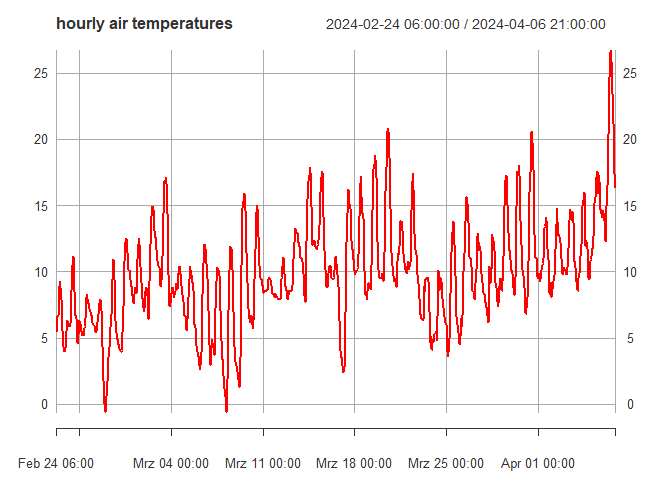
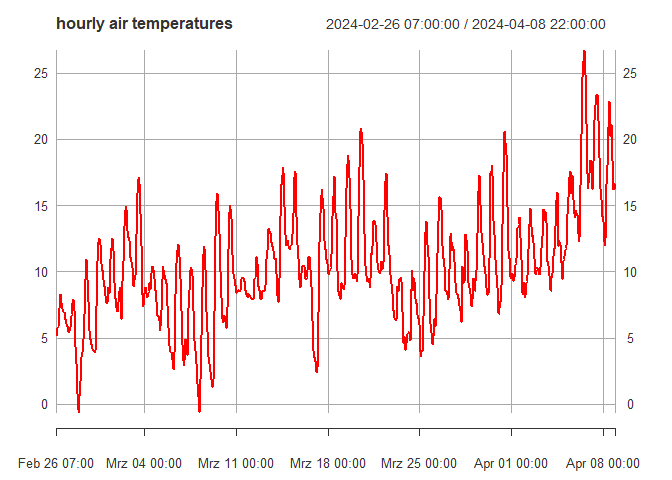
feat(get_n_queries)
fixes #74

diff --git a/README.md b/README.md
@@ -19,7 +19,7 @@ and load the package via
 
 ``` r
 library(netatmo.weather)
-#> 0.5.18
+#> 0.5.20
 ```
 
 ## Getting Started
@@ -158,25 +158,25 @@ stations <- get_publicdata(ext = e1)
 #> /getpublicdata: Fetching stations from the following area: 6.89, 51.34, 7.13, 51.53 ...
 
 stations
-#> Simple feature collection with 307 features and 13 fields
+#> Simple feature collection with 306 features and 13 fields
 #> Geometry type: POINT
 #> Dimension:     XY
 #> Bounding box:  xmin: 6.890067 ymin: 51.34127 xmax: 7.129903 ymax: 51.52976
 #> Geodetic CRS:  WGS 84
-#> # A tibble: 307 × 14
+#> # A tibble: 306 × 14
 #>    status time_server         NAMain      timezone country altitude city  street
 #>  * <chr>  <dttm>              <chr>       <chr>    <chr>      <int> <chr> <chr> 
-#>  1 ok     2024-04-06 22:25:22 70:ee:50:0… Europe/… DE           111 Essen A 52  
-#>  2 ok     2024-04-06 22:25:22 70:ee:50:6… Europe/… DE           112 Essen Steel…
-#>  3 ok     2024-04-06 22:25:22 70:ee:50:0… Europe/… DE           114 Essen Steel…
-#>  4 ok     2024-04-06 22:25:22 70:ee:50:a… Europe/… DE           108 Essen Eligi…
-#>  5 ok     2024-04-06 22:25:22 70:ee:50:0… Europe/… DE            60 Essen Hengl…
-#>  6 ok     2024-04-06 22:25:22 70:ee:50:1… Europe/… DE            79 Essen Am Kn…
-#>  7 ok     2024-04-06 22:25:22 70:ee:50:a… Europe/… DE            69 Essen Notte…
-#>  8 ok     2024-04-06 22:25:22 70:ee:50:0… Europe/… DE            69 Essen Notte…
-#>  9 ok     2024-04-06 22:25:22 70:ee:50:3… Europe/… DE            77 Essen Lohmü…
-#> 10 ok     2024-04-06 22:25:22 70:ee:50:a… Europe/… DE           101 Essen Bochu…
-#> # ℹ 297 more rows
+#>  1 ok     2024-04-08 23:22:55 70:ee:50:0… Europe/… DE           111 Essen A 52  
+#>  2 ok     2024-04-08 23:22:55 70:ee:50:6… Europe/… DE           112 Essen Steel…
+#>  3 ok     2024-04-08 23:22:55 70:ee:50:0… Europe/… DE           114 Essen Steel…
+#>  4 ok     2024-04-08 23:22:55 70:ee:50:a… Europe/… DE           108 Essen Laure…
+#>  5 ok     2024-04-08 23:22:55 70:ee:50:a… Europe/… DE           108 Essen Eligi…
+#>  6 ok     2024-04-08 23:22:55 70:ee:50:0… Europe/… DE            60 Essen Hengl…
+#>  7 ok     2024-04-08 23:22:55 70:ee:50:a… Europe/… DE            69 Essen Notte…
+#>  8 ok     2024-04-08 23:22:55 70:ee:50:0… Europe/… DE            69 Essen Notte…
+#>  9 ok     2024-04-08 23:22:55 70:ee:50:3… Europe/… DE            77 Essen Lohmü…
+#> 10 ok     2024-04-08 23:22:55 70:ee:50:a… Europe/… DE           101 Essen Bochu…
+#> # ℹ 296 more rows
 #> # ℹ 6 more variables: mark <int>, n_modules <int>, NAModule1 <chr>,
 #> #   NAModule2 <chr>, NAModule3 <chr>, geometry <POINT [°]>
 ```
@@ -192,25 +192,25 @@ stations_tiled <- get_publicdata(ext = e1, tiles = TRUE)
 #> /getpublicdata: Fetching stations from the following area: 6.89, 51.34, 7.13, 51.53 ...
 
 stations_tiled
-#> Simple feature collection with 632 features and 13 fields
+#> Simple feature collection with 624 features and 13 fields
 #> Geometry type: POINT
 #> Dimension:     XY
 #> Bounding box:  xmin: 6.890067 ymin: 51.34127 xmax: 7.129903 ymax: 51.52976
 #> Geodetic CRS:  WGS 84
-#> # A tibble: 632 × 14
+#> # A tibble: 624 × 14
 #>    status time_server         NAMain      timezone country altitude city  street
 #>    <chr>  <dttm>              <chr>       <chr>    <chr>      <int> <chr> <chr> 
-#>  1 ok     2024-04-06 22:26:20 70:ee:50:8… Europe/… DE            45 Essen Volck…
-#>  2 ok     2024-04-06 22:26:20 70:ee:50:7… Europe/… DE            46 Essen Eva-H…
-#>  3 ok     2024-04-06 22:26:20 70:ee:50:a… Europe/… DE            63 Essen Am Mö…
-#>  4 ok     2024-04-06 22:26:20 70:ee:50:a… Europe/… DE            93 Essen Senge…
-#>  5 ok     2024-04-06 22:26:20 70:ee:50:1… Europe/… DE            48 Essen Johan…
-#>  6 ok     2024-04-06 22:26:20 70:ee:50:a… Europe/… DE            57 Essen Marti…
-#>  7 ok     2024-04-06 22:26:20 70:ee:50:1… Europe/… DE            81 Essen Akade…
-#>  8 ok     2024-04-06 22:26:20 70:ee:50:7… Europe/… DE            61 Essen Haupt…
-#>  9 ok     2024-04-06 22:26:20 70:ee:50:7… Europe/… DE            61 Essen Haupt…
-#> 10 ok     2024-04-06 22:26:20 70:ee:50:7… Europe/… DE            66 Essen Eiche…
-#> # ℹ 622 more rows
+#>  1 ok     2024-04-08 23:23:49 70:ee:50:8… Europe/… DE            45 Essen Volck…
+#>  2 ok     2024-04-08 23:23:49 70:ee:50:7… Europe/… DE            46 Essen Eva-H…
+#>  3 ok     2024-04-08 23:23:49 70:ee:50:a… Europe/… DE            63 Essen Am Mö…
+#>  4 ok     2024-04-08 23:23:49 70:ee:50:a… Europe/… DE            93 Essen Senge…
+#>  5 ok     2024-04-08 23:23:49 70:ee:50:1… Europe/… DE            48 Essen Johan…
+#>  6 ok     2024-04-08 23:23:49 70:ee:50:a… Europe/… DE            57 Essen Marti…
+#>  7 ok     2024-04-08 23:23:49 70:ee:50:1… Europe/… DE            81 Essen Akade…
+#>  8 ok     2024-04-08 23:23:49 70:ee:50:7… Europe/… DE            61 Essen Haupt…
+#>  9 ok     2024-04-08 23:23:49 70:ee:50:7… Europe/… DE            61 Essen Haupt…
+#> 10 ok     2024-04-08 23:23:49 70:ee:50:7… Europe/… DE            66 Essen Eiche…
+#> # ℹ 614 more rows
 #> # ℹ 6 more variables: mark <int>, n_modules <int>, NAModule1 <chr>,
 #> #   NAModule2 <chr>, NAModule3 <chr>, geometry <POINT [°]>
 ```
@@ -234,19 +234,19 @@ To assist you with the latter going backwards from
 # 5-minutely data
 p1 <- get_period(res = 5)
 as.POSIXct(p1, tz = "UTC")
-#> [1] "2024-04-03 08:40:00 UTC" "2024-04-06 22:00:00 UTC"
+#> [1] "2024-04-05 09:40:00 UTC" "2024-04-08 23:00:00 UTC"
 
 # hourly data
 p2 <- get_period(res = 60)
 as.POSIXct(p2, tz = "UTC")
-#> [1] "2024-02-24 06:00:00 UTC" "2024-04-06 22:00:00 UTC"
+#> [1] "2024-02-26 07:00:00 UTC" "2024-04-08 23:00:00 UTC"
 
 # querying the last 24 hours, maybe convenient for scheduled jobs
 p3 <- get_period("recent")
 as.POSIXct(p3, tz = "UTC")
-#> [1] "2024-04-05 22:00:00 UTC" "2024-04-06 22:00:00 UTC"
+#> [1] "2024-04-07 23:00:00 UTC" "2024-04-08 23:00:00 UTC"
 
-# self-defined period
+# self-defined periods
 p4 <- get_period("2024-03-01/2024-04-01")
 as.POSIXct(p4, tz = "UTC")
 #> [1] "2024-03-01 UTC" "2024-04-01 UTC"
@@ -266,7 +266,7 @@ obs <- get_measure(devices = stations_tiled[1:10, ],
                    period = p2, 
                    par = "temperature", 
                    res = 60)
-#> /getmeasure: Fetching temperature measurements (60 min) from 2024-02-23 07:00 UTC to 2024-04-05 23:00 UTC for 10 station(s) ...
+#> /getmeasure: Fetching temperature measurements (60 min) from 2024-02-26 07:00 UTC to 2024-04-08 23:00 UTC for 10 station(s) ...
 
 class(obs)
 #> [1] "list"
@@ -286,7 +286,7 @@ class(xts)
 
 # inspect index range
 zoo::index(xts) |> range()
-#> [1] "2024-02-24 06:00:00 UTC" "2024-04-06 21:00:00 UTC"
+#> [1] "2024-02-26 07:00:00 UTC" "2024-04-08 22:00:00 UTC"
 
 # inspect index/coredata
 head(xts)
@@ -294,12 +294,12 @@ head(xts)
 #>   NOTE: set 'options(xts_check_TZ = FALSE)' to disable this warning
 #>     This note is displayed once per session
 #>                     temperature
-#> 2024-02-24 06:00:00         5.5
-#> 2024-02-24 07:00:00         5.8
-#> 2024-02-24 08:00:00         6.6
-#> 2024-02-24 09:00:00         6.7
-#> 2024-02-24 10:00:00         7.8
-#> 2024-02-24 11:00:00         8.9
+#> 2024-02-26 07:00:00         5.2
+#> 2024-02-26 08:00:00         5.4
+#> 2024-02-26 09:00:00         5.7
+#> 2024-02-26 10:00:00         5.9
+#> 2024-02-26 11:00:00         6.5
+#> 2024-02-26 12:00:00         7.2
 
 # inspect attribute names appended 
 attributes(xts) |> names() |> tail(-4)

diff --git a/NEWS.md b/NEWS.md
@@ -1,4 +1,4 @@
-# version 0.5.19
+# version 0.5.20
 
 ## features
 
